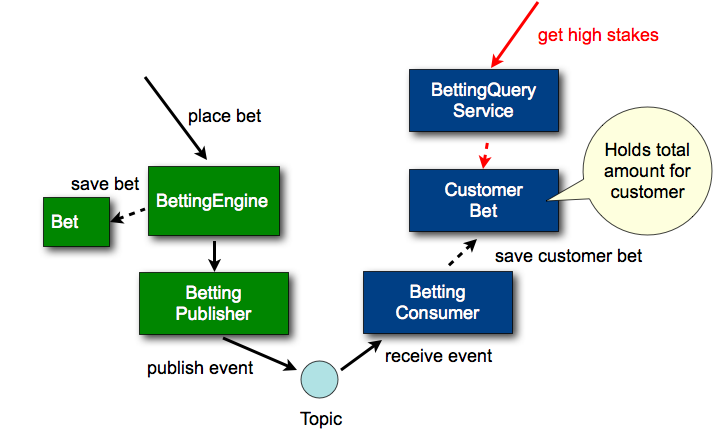
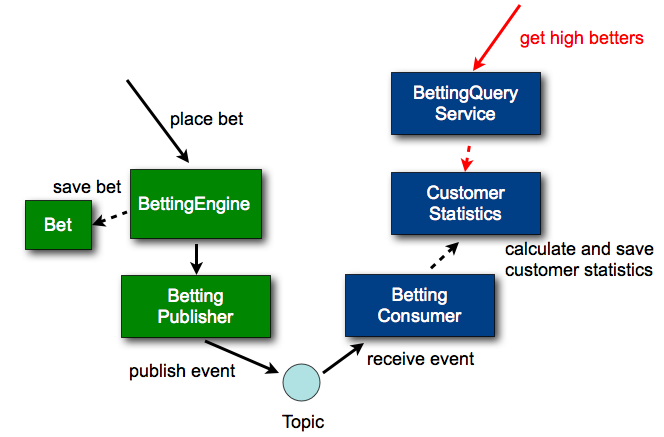
CustomerStatistics instead of CustomerBet

diff --git a/src/test/java/org/betting/customer/serviceapi/BettingQueryServiceTest.java b/src/test/java/org/betting/customer/serviceapi/BettingQueryServiceTest.java
@@ -4,7 +4,7 @@ import java.util.Date;
 import java.util.List;
 import java.util.Set;
 
-import org.betting.customer.domain.CustomerBet;
+import org.betting.customer.domain.CustomerStatistics;
 import org.betting.engine.domain.Bet;
 import org.betting.engine.eventapi.BetPlaced;
 import org.fornax.cartridges.sculptor.framework.accessimpl.mongodb.DbManager;
@@ -56,20 +56,26 @@ public class BettingQueryServiceTest extends AbstractDependencyInjectionSpringCo
         // dbManager.getDB().dropDatabase();
     }
 
+    @Override
     @Test
-    public void testGetHighStakes() throws Exception {
-        Bet bet1 = new Bet("abc", "1234", 100.0);
+    public void testGetHighBetters() throws Exception {
+        Bet bet1 = new Bet("abc", "1234", 95.0);
         BetPlaced event1 = new BetPlaced(new Date(), bet1);
         eventBus.publish("jms:topic:bet", event1);
-        Bet bet2 = new Bet("def", "1234", 30.0);
+        Bet bet2 = new Bet("def", "1234", 105.0);
         BetPlaced event2 = new BetPlaced(new Date(), bet2);
         eventBus.publish("jms:topic:bet", event2);
+        Bet bet3 = new Bet("abc", "9876", 30.0);
+        BetPlaced event3 = new BetPlaced(new Date(), bet3);
+        eventBus.publish("jms:topic:bet", event3);
 
         Thread.sleep(200);
 
-        List<CustomerBet> highStakes = bettingQueryService.getHighStakes(90.0);
-        assertEquals(1, highStakes.size());
-        assertEquals("1234", highStakes.get(0).getCustomerId());
-        assertEquals(130, highStakes.get(0).getTotalAmount(), 0.01);
+        List<CustomerStatistics> high = bettingQueryService.getHighBetters(99.0);
+        assertEquals(1, high.size());
+        assertEquals("1234", high.get(0).getCustomerId());
+        assertEquals(100, high.get(0).getAverageAmount(), 0.01);
+        assertEquals(2, high.get(0).getNumberOfBets());
+
     }
 }

diff --git a/src/main/java/org/betting/customer/consumer/BettingConsumerImpl.java b/src/main/java/org/betting/customer/consumer/BettingConsumerImpl.java
@@ -3,9 +3,9 @@ package org.betting.customer.consumer;
 import static org.fornax.cartridges.sculptor.framework.event.DynamicMethodDispatcher.dispatch;
 
 import org.betting.customer.domain.Customer;
-import org.betting.customer.domain.CustomerBet;
-import org.betting.customer.exception.CustomerBetNotFoundException;
+import org.betting.customer.domain.CustomerStatistics;
 import org.betting.customer.exception.CustomerNotFoundException;
+import org.betting.customer.exception.CustomerStatisticsNotFoundException;
 import org.betting.engine.domain.Bet;
 import org.betting.engine.eventapi.BetPlaced;
 import org.fornax.cartridges.sculptor.framework.event.Event;
@@ -30,17 +30,18 @@ public class BettingConsumerImpl extends BettingConsumerImplBase {
 
         String customerName = tryGetCustomerName(customerId);
 
-        CustomerBet customerBet;
+        CustomerStatistics stat;
         try {
-            customerBet = getCustomerBetRepository().findByKey(customerId);
-            customerBet.setCustomerName(customerName);
-            customerBet.setTotalAmount(customerBet.getTotalAmount() + bet.getAmount());
-        } catch (CustomerBetNotFoundException e) {
+            stat = getCustomerStatisticsRepository().findByKey(customerId);
+            stat.setCustomerName(customerName);
+        } catch (CustomerStatisticsNotFoundException e) {
             // first bet for this customer
-            customerBet = new CustomerBet(customerId, customerName, bet.getAmount());
+            stat = new CustomerStatistics(customerId, customerName);
         }
 
-        getCustomerBetRepository().save(customerBet);
+        stat.addBet(bet);
+
+        getCustomerStatisticsRepository().save(stat);
     }
 
     private String tryGetCustomerName(String customerId) {

diff --git a/src/main/java/org/betting/customer/domain/CustomerStatistics.java b/src/main/java/org/betting/customer/domain/CustomerStatistics.java
@@ -1,0 +1,31 @@
+package org.betting.customer.domain;
+
+import org.betting.engine.domain.Bet;
+
+/**
+ * Entity representing CustomerStatistics.
+ * <p>
+ * This class is responsible for the domain object related business logic for
+ * CustomerStatistics. Properties and associations are implemented in the
+ * generated base class
+ * {@link org.betting.customer.domain.CustomerStatisticsBase}.
+ */
+public class CustomerStatistics extends CustomerStatisticsBase {
+    private static final long serialVersionUID = 1L;
+
+    protected CustomerStatistics() {
+    }
+
+    public CustomerStatistics(String customerId, String customerName) {
+        super(customerId, customerName);
+    }
+
+    public void addBet(Bet bet) {
+        int n = getNumberOfBets();
+        double newAverage = ((getAverageAmount() * n) + bet.getAmount()) / (n + 1);
+        setAverageAmount(newAverage);
+
+        setNumberOfBets(n + 1);
+
+    }
+}
